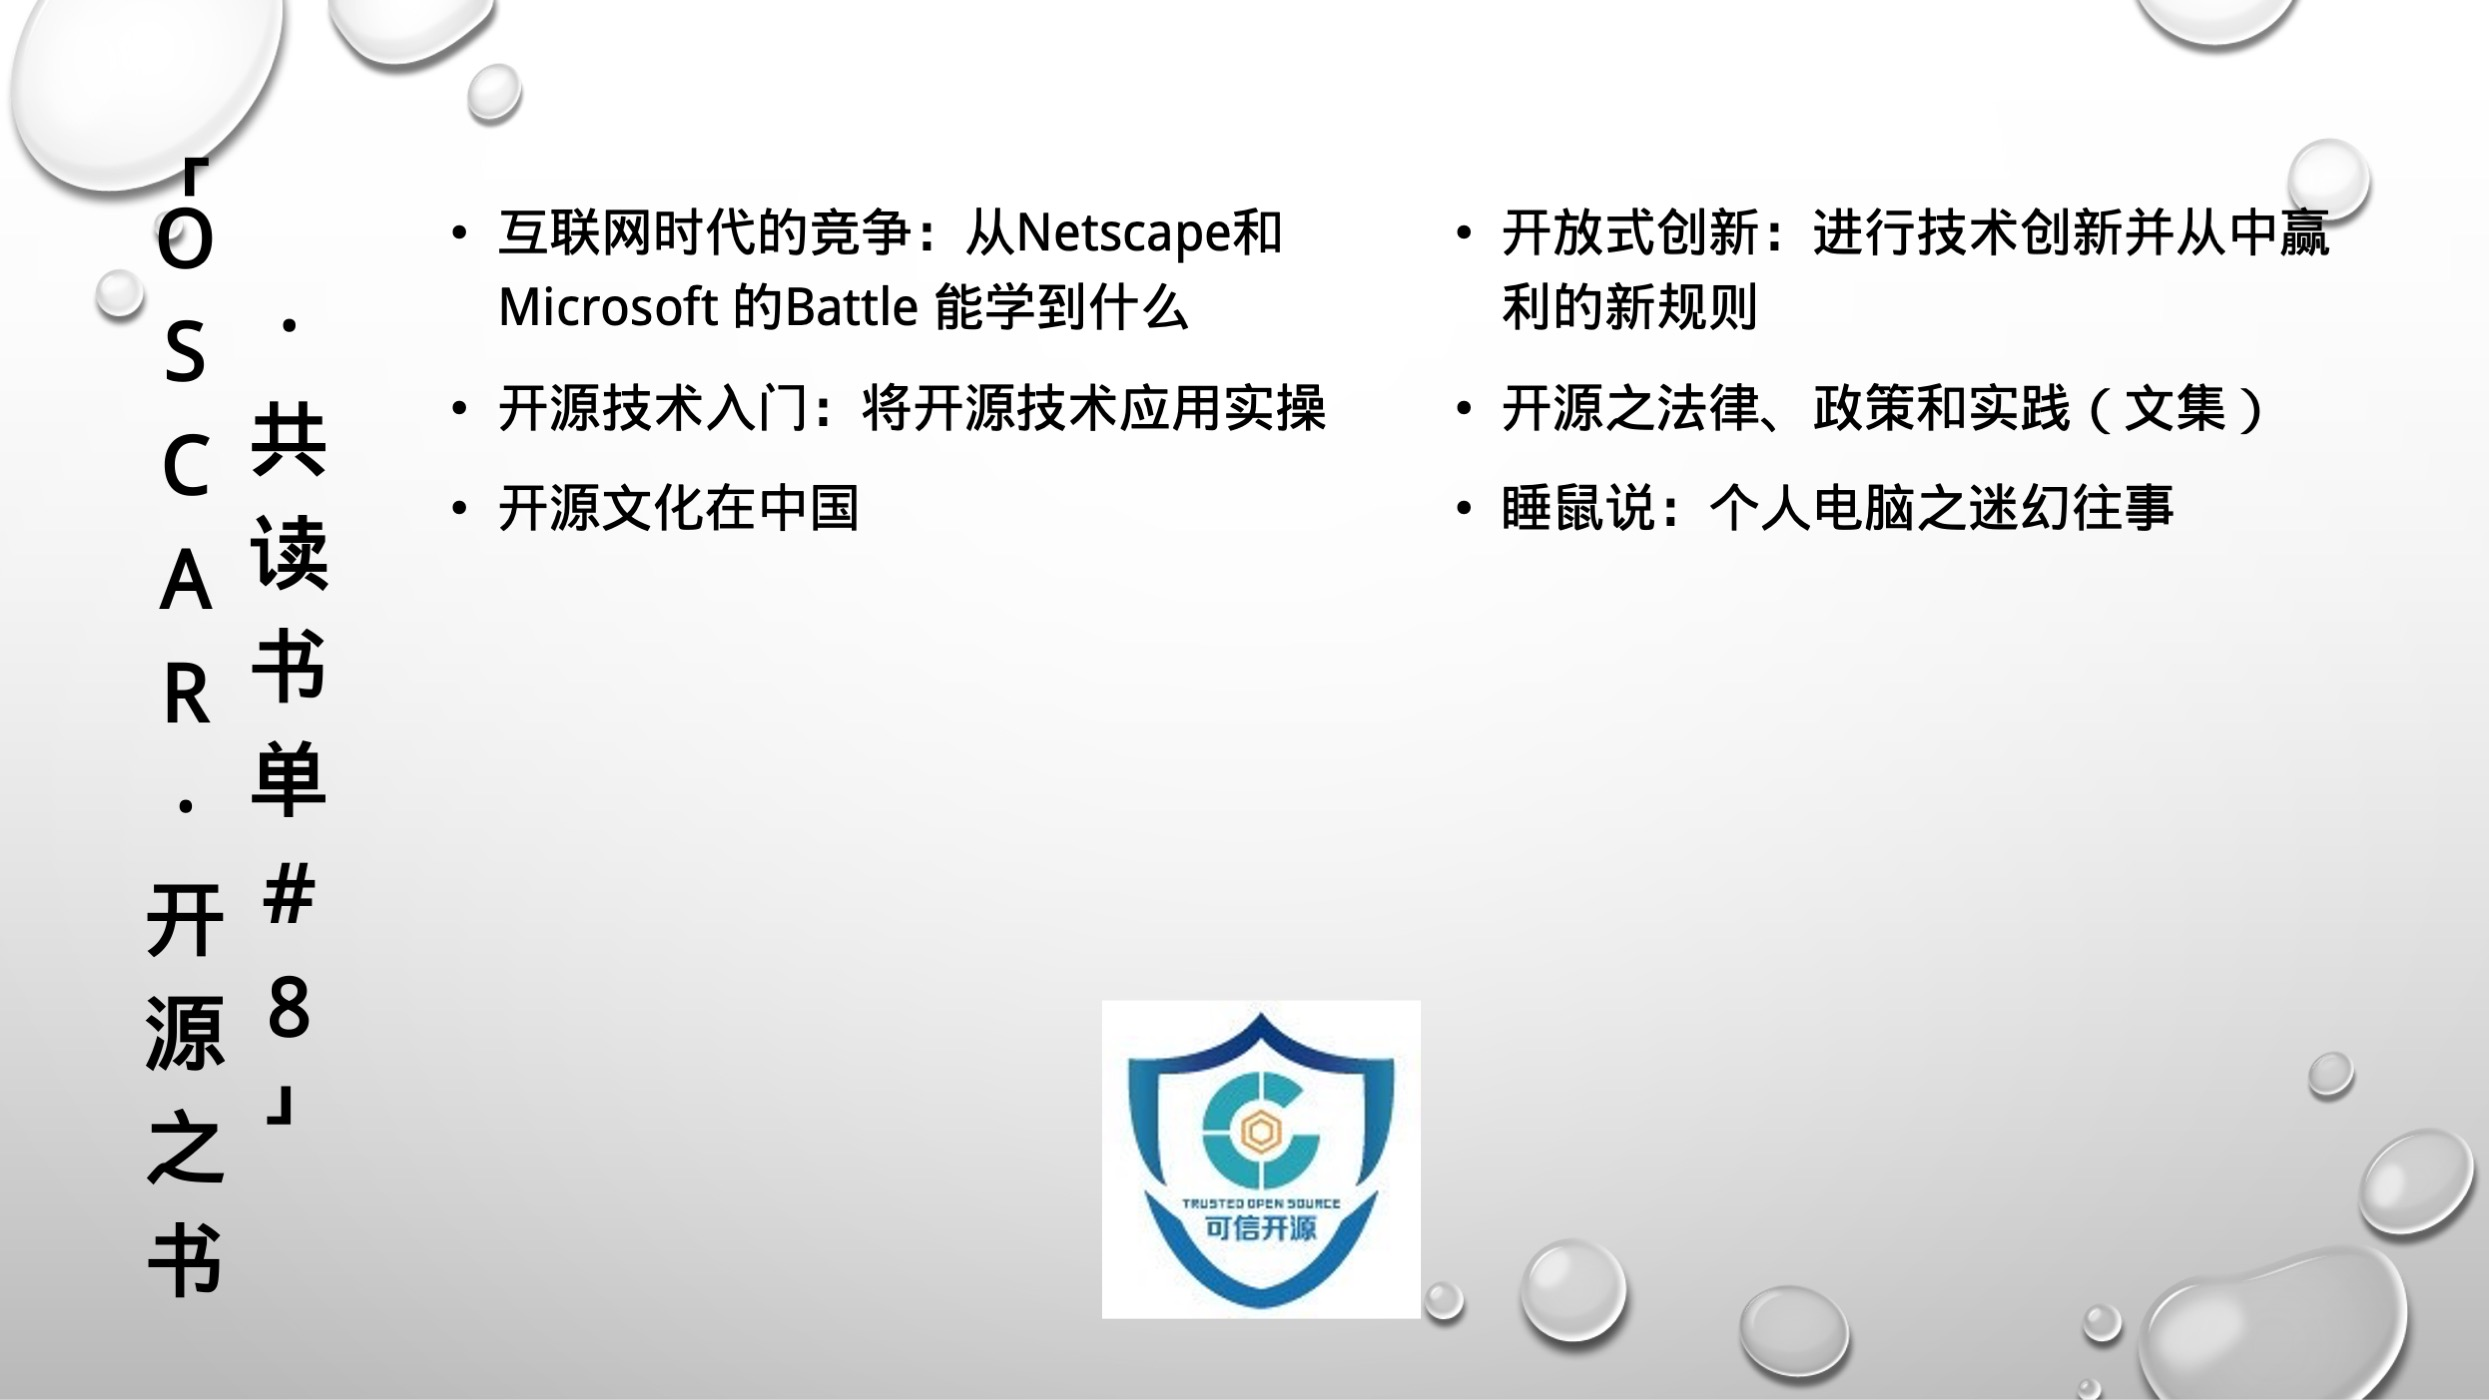
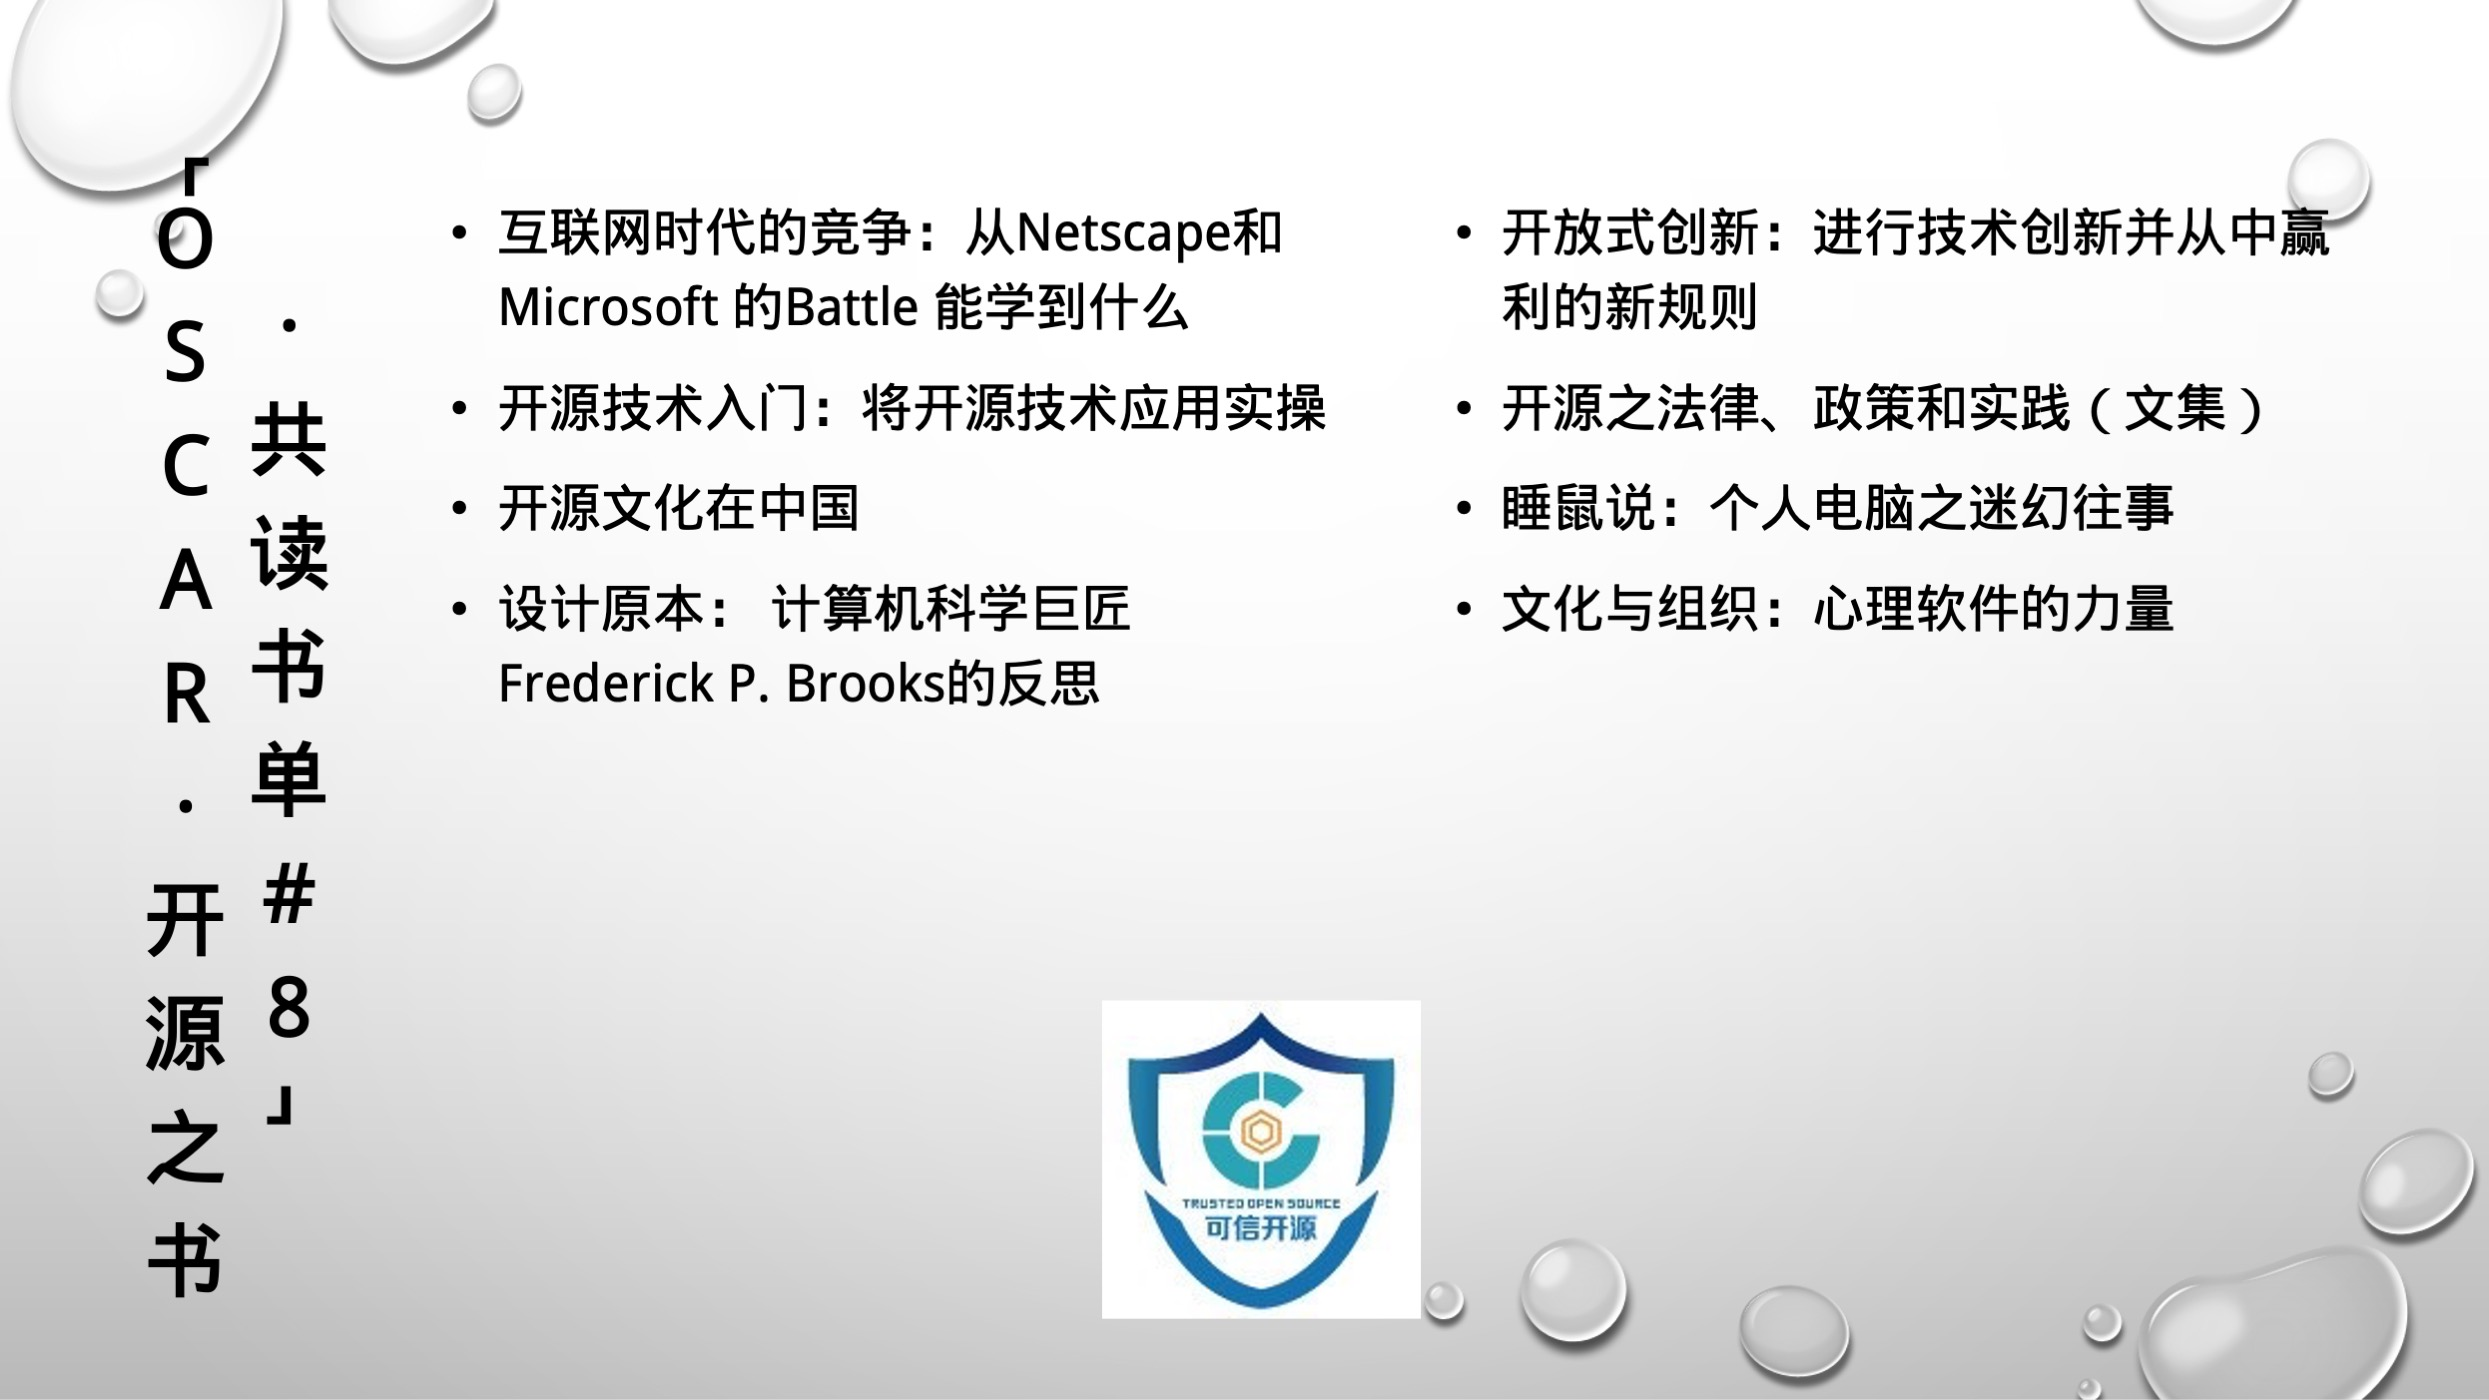
change book list show style.

Changed region(s): [[0.1856, 0.3993, 0.464, 0.5221], [0.5878, 0.3993, 0.8971, 0.4607]]

diff --git a/themes/hugo-hero-theme/layouts/work/single.html b/themes/hugo-hero-theme/layouts/work/single.html
@@ -6,14 +6,9 @@
 {{ partial "hero-image-setheight.html" (dict "background" .Params.heroBackground "heading" .Params.heroHeading "subheading" .Params.heroSubHeading "content" .)}}
 <div class="container pt-4 pt-md-10 pb-4 pb-md-10">
   <div class="row justify-content-start">
-    <div class="col-12 col-md-8">
-      <div class="work work-single">
-        <div class="content">{{.Content}}</div>
-      </div>
-    </div>
     {{ if .Params.images }}
     <div class="col-12 pt-4 pt-md-10">
-      <h2 class="mb-2 text-uppercase">书单展示</h2>
+      <h2 class="mb-2 text-uppercase">书名展示</h2>
       <div class="masonry">
         {{ range .Params.images }}
           <div class="work-image item">
@@ -23,6 +18,12 @@
       </div>
     </div>
     {{ end }}
+    <div class="col-12">
+      <div class="work work-single">
+        <div class="markdown-body">{{.Content}}</div>
+      </div>
+    </div>
+
   </div>
 </div>
 {{ end }}

diff --git a/themes/hugo-hero-theme/layouts/work/summary.html b/themes/hugo-hero-theme/layouts/work/summary.html
@@ -8,6 +8,6 @@
     <h2 class="work-title">
       <a href="{{ .Permalink }}">{{ .Title }}</a>
     </h2>
-    {{ .Content | truncate 120 "..." | plainify }}
+    {{ .Description | truncate 120 "..." | plainify }}
   </div>
 </div>

diff --git a/content/work/book-list-1.md b/content/work/book-list-1.md
@@ -5,26 +5,27 @@ draft: false
 weight: 1
 heroHeading: '开源之书单：一'
 heroSubHeading: ''
-heroBackground: 'https://source.unsplash.com/random/?book'
-thumbnail: 'https://source.unsplash.com/random/?book'
+heroBackground: 'services/library.jpg'
+thumbnail: '/images/book-lists/open-source-book-list-1.jpg'
 images: ['/images/book-lists/open-source-book-list-1.jpg']
+description: '经典书籍，不容错过。'
 ---
 
-软件悖论：商业软件市场的崛起与衰落
-订阅经济：创造可持续增长的未来
-开放与共享：开源创新的经济学思考
-新造王者：开发者是如何征服世界的
-匠人
-黑客：计算机革命的英雄们
-大教堂与集市
-生产开放源代码软件
-开源如何吞噬世界
-开源文集：开源革命之声
-开放人生：有关开源的哲学
-开放式组织：面向未来的组织管理新范式
-自由和开源软件洞察论文集
-黑客伦理与信息时代的精神
-共同体的艺术：归属感的7个原则
-集体行动的逻辑
-互联网的成功：开源软件共性的总结学习
-重塑发现：网络化科学的新时代
+## 软件悖论：商业软件市场的崛起与衰落
+## 订阅经济：创造可持续增长的未来
+## 开放与共享：开源创新的经济学思考
+## 新造王者：开发者是如何征服世界的
+## 匠人
+## 黑客：计算机革命的英雄们
+## 大教堂与集市
+## 生产开放源代码软件
+## 开源如何吞噬世界
+## 开源文集：开源革命之声
+## 开放人生：有关开源的哲学
+## 开放式组织：面向未来的组织管理新范式
+## 自由和开源软件洞察论文集
+## 黑客伦理与信息时代的精神
+## 共同体的艺术：归属感的7个原则
+## 集体行动的逻辑
+## 互联网的成功：开源软件共性的总结学习
+## 重塑发现：网络化科学的新时代

diff --git a/content/work/book-list-2.md b/content/work/book-list-2.md
@@ -2,12 +2,13 @@
 title: '开源之书单：二'
 date: 2018-11-18T12:33:46+10:00
 draft: false
-weight: 1
+weight: 2
 heroHeading: '开源之书单：二'
 heroSubHeading: ''
-heroBackground: 'https://source.unsplash.com/random/?book'
-thumbnail: 'https://source.unsplash.com/random/?book'
+heroBackground: 'https://source.unsplash.com/1600x400/?book'
+thumbnail: '/images/book-lists/open-source-book-list-2.jpg'
 images: ['/images/book-lists/open-source-book-list-2.jpg']
+description: '打开新世界，需要不同的视界。'
 ---
 
 

diff --git a/content/work/book-list-3.md b/content/work/book-list-3.md
@@ -2,12 +2,13 @@
 title: '开源之书单：三'
 date: 2018-11-18T12:33:46+10:00
 draft: false
-weight: 1
+weight: 3
 heroHeading: '开源之书单：三'
 heroSubHeading: ''
-heroBackground: 'https://source.unsplash.com/random/?book'
-thumbnail: 'https://source.unsplash.com/random/?book'
+heroBackground: 'https://source.unsplash.com/1600x400/?book'
+thumbnail: '/images/book-lists/open-source-book-list-3.jpg'
 images: ['/images/book-lists/open-source-book-list-3.jpg']
+description: '经典书籍，不容错过。'
 ---
 
 

diff --git a/content/work/book-list-4.md b/content/work/book-list-4.md
@@ -2,12 +2,13 @@
 title: '开源之书单：四'
 date: 2018-11-18T12:33:46+10:00
 draft: false
-weight: 1
+weight: 4
 heroHeading: '开源之书单：四'
 heroSubHeading: ''
-heroBackground: 'https://source.unsplash.com/random/?book'
-thumbnail: 'https://source.unsplash.com/random/?book'
+heroBackground: 'https://source.unsplash.com/1600x400/?book'
+thumbnail: '/images/book-lists/open-source-book-list-4.jpg'
 images: ['/images/book-lists/open-source-book-list-4.jpg']
+description: '经典书籍，不容错过。'
 ---
 
 

diff --git a/content/work/book-list-5.md b/content/work/book-list-5.md
@@ -2,12 +2,13 @@
 title: '开源之书单：五'
 date: 2018-11-18T12:33:46+10:00
 draft: false
-weight: 1
+weight: 5
 heroHeading: '开源之书单：五'
 heroSubHeading: ''
-heroBackground: 'https://source.unsplash.com/random/?book'
-thumbnail: 'https://source.unsplash.com/random/?book'
+heroBackground: 'https://source.unsplash.com/1600x400/?book'
+thumbnail: '/images/book-lists/open-source-book-list-5.jpg'
 images: ['/images/book-lists/open-source-book-list-5.jpg']
+description: '开源是另外一种秩序！'
 ---
 
 

diff --git a/content/work/book-list-6.md b/content/work/book-list-6.md
@@ -2,12 +2,13 @@
 title: '开源之书单：六'
 date: 2018-11-18T12:33:46+10:00
 draft: false
-weight: 1
+weight: 6
 heroHeading: '开源之书单：六'
 heroSubHeading: ''
-heroBackground: 'https://source.unsplash.com/random/?book'
-thumbnail: 'https://source.unsplash.com/random/?book'
+heroBackground: 'https://source.unsplash.com/1600x400/?book'
+thumbnail: '/images/book-lists/open-source-book-list-6.jpg'
 images: ['/images/book-lists/open-source-book-list-6.jpg']
+description: '经典书籍，不容错过。'
 ---
 
 

diff --git a/content/work/book-list-8.md b/content/work/book-list-8.md
@@ -2,12 +2,13 @@
 title: '开源之书单：八'
 date: 2018-11-18T12:33:46+10:00
 draft: false
-weight: 1
+weight: 8
 heroHeading: '开源之书单：八'
 heroSubHeading: ''
-heroBackground: 'https://source.unsplash.com/random/?book'
-thumbnail: 'https://source.unsplash.com/random/?book'
+heroBackground: 'https://source.unsplash.com/1600x400/?book'
+thumbnail: '/images/book-lists/open-source-book-list-8.jpg'
 images: ['/images/book-lists/open-source-book-list-8.jpg']
+description: '经典书籍，不容错过。'
 ---
 
 

diff --git a/content/work/book-list-7.md b/content/work/book-list-7.md
@@ -2,11 +2,12 @@
 title: '开源之书单：七'
 date: 2018-11-18T12:33:46+10:00
 draft: false
-weight: 1
+weight: 7
 heroHeading: '开源之书单：七'
 heroSubHeading: ''
-heroBackground: 'https://source.unsplash.com/random/?book'
-thumbnail: 'https://source.unsplash.com/random/?book'
+heroBackground: 'https://source.unsplash.com/1600x400/?book'
+thumbnail: '/images/book-lists/open-source-book-list-7.jpg'
 images: ['/images/book-lists/open-source-book-list-7.jpg']
+description: '经典书籍，不容错过。'
 ---
 

diff --git a/content/work/_index.md b/content/work/_index.md
@@ -2,6 +2,6 @@
 title: '「OSCAR·开源之书·共读书单」'
 date: 2018-02-10T11:52:18+07:00
 heroHeading: '「OSCAR·开源之书·共读书单」'
-heroSubHeading: '您想到的开源的书籍这里应有尽有～ '
+heroSubHeading: '您想到的开源的书籍这里很可能已经收集了。 '
 heroBackground: 'https://source.unsplash.com/eluzJSfkNCk/1600x400'
 ---
